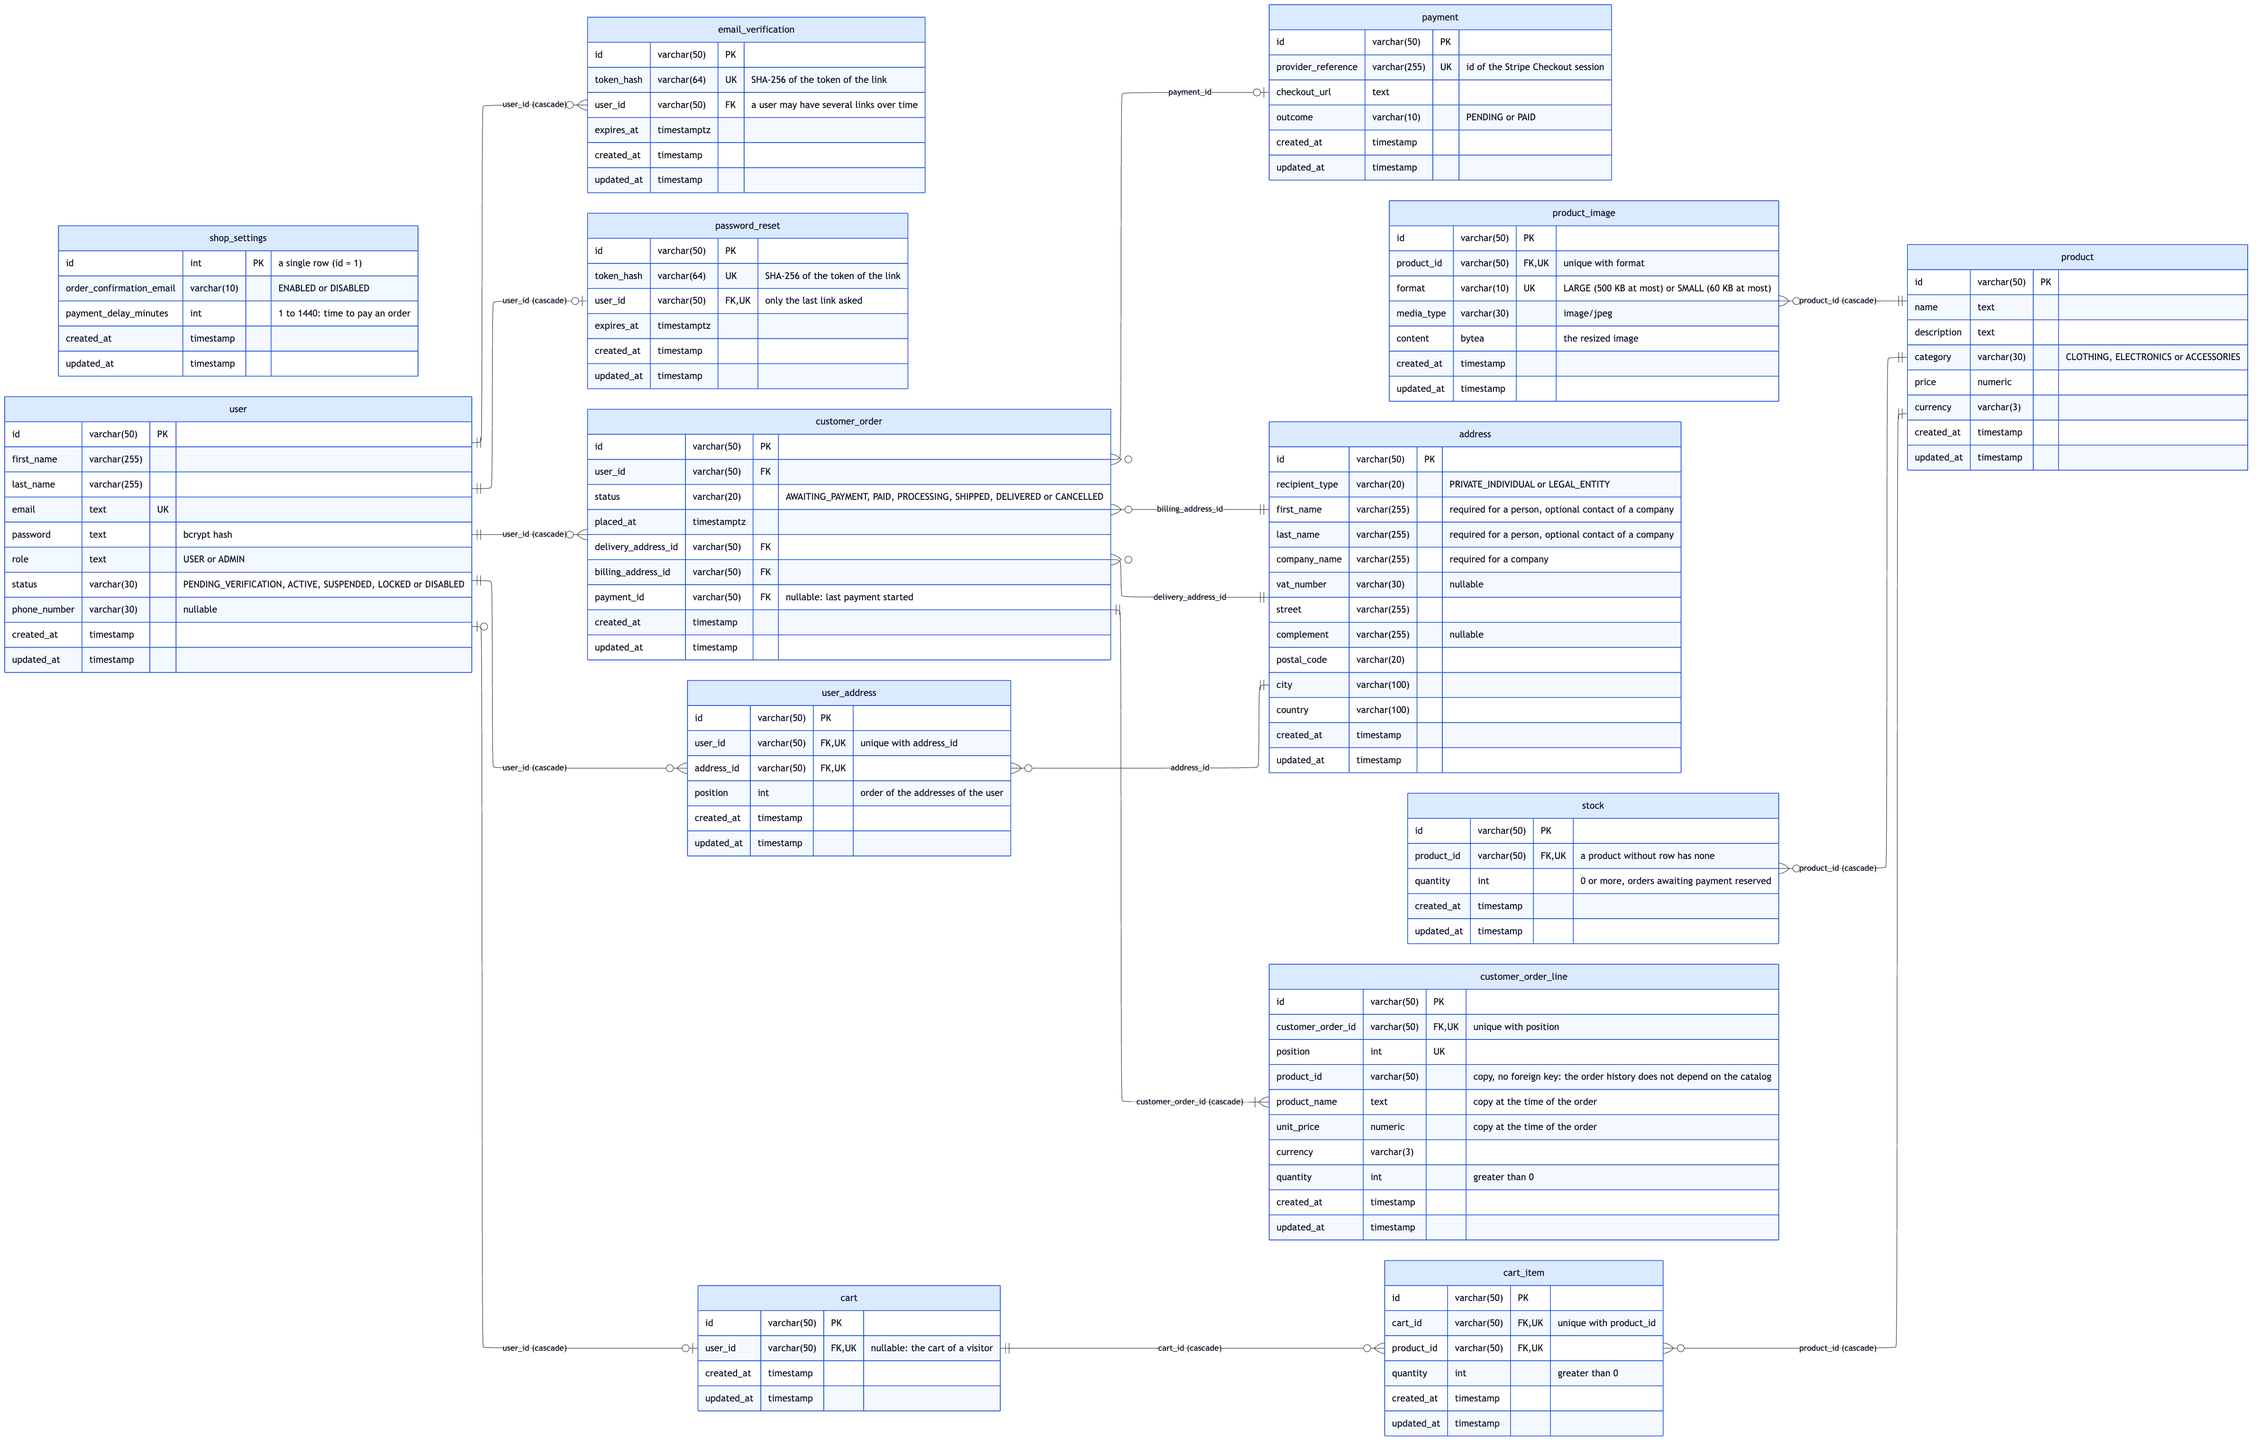
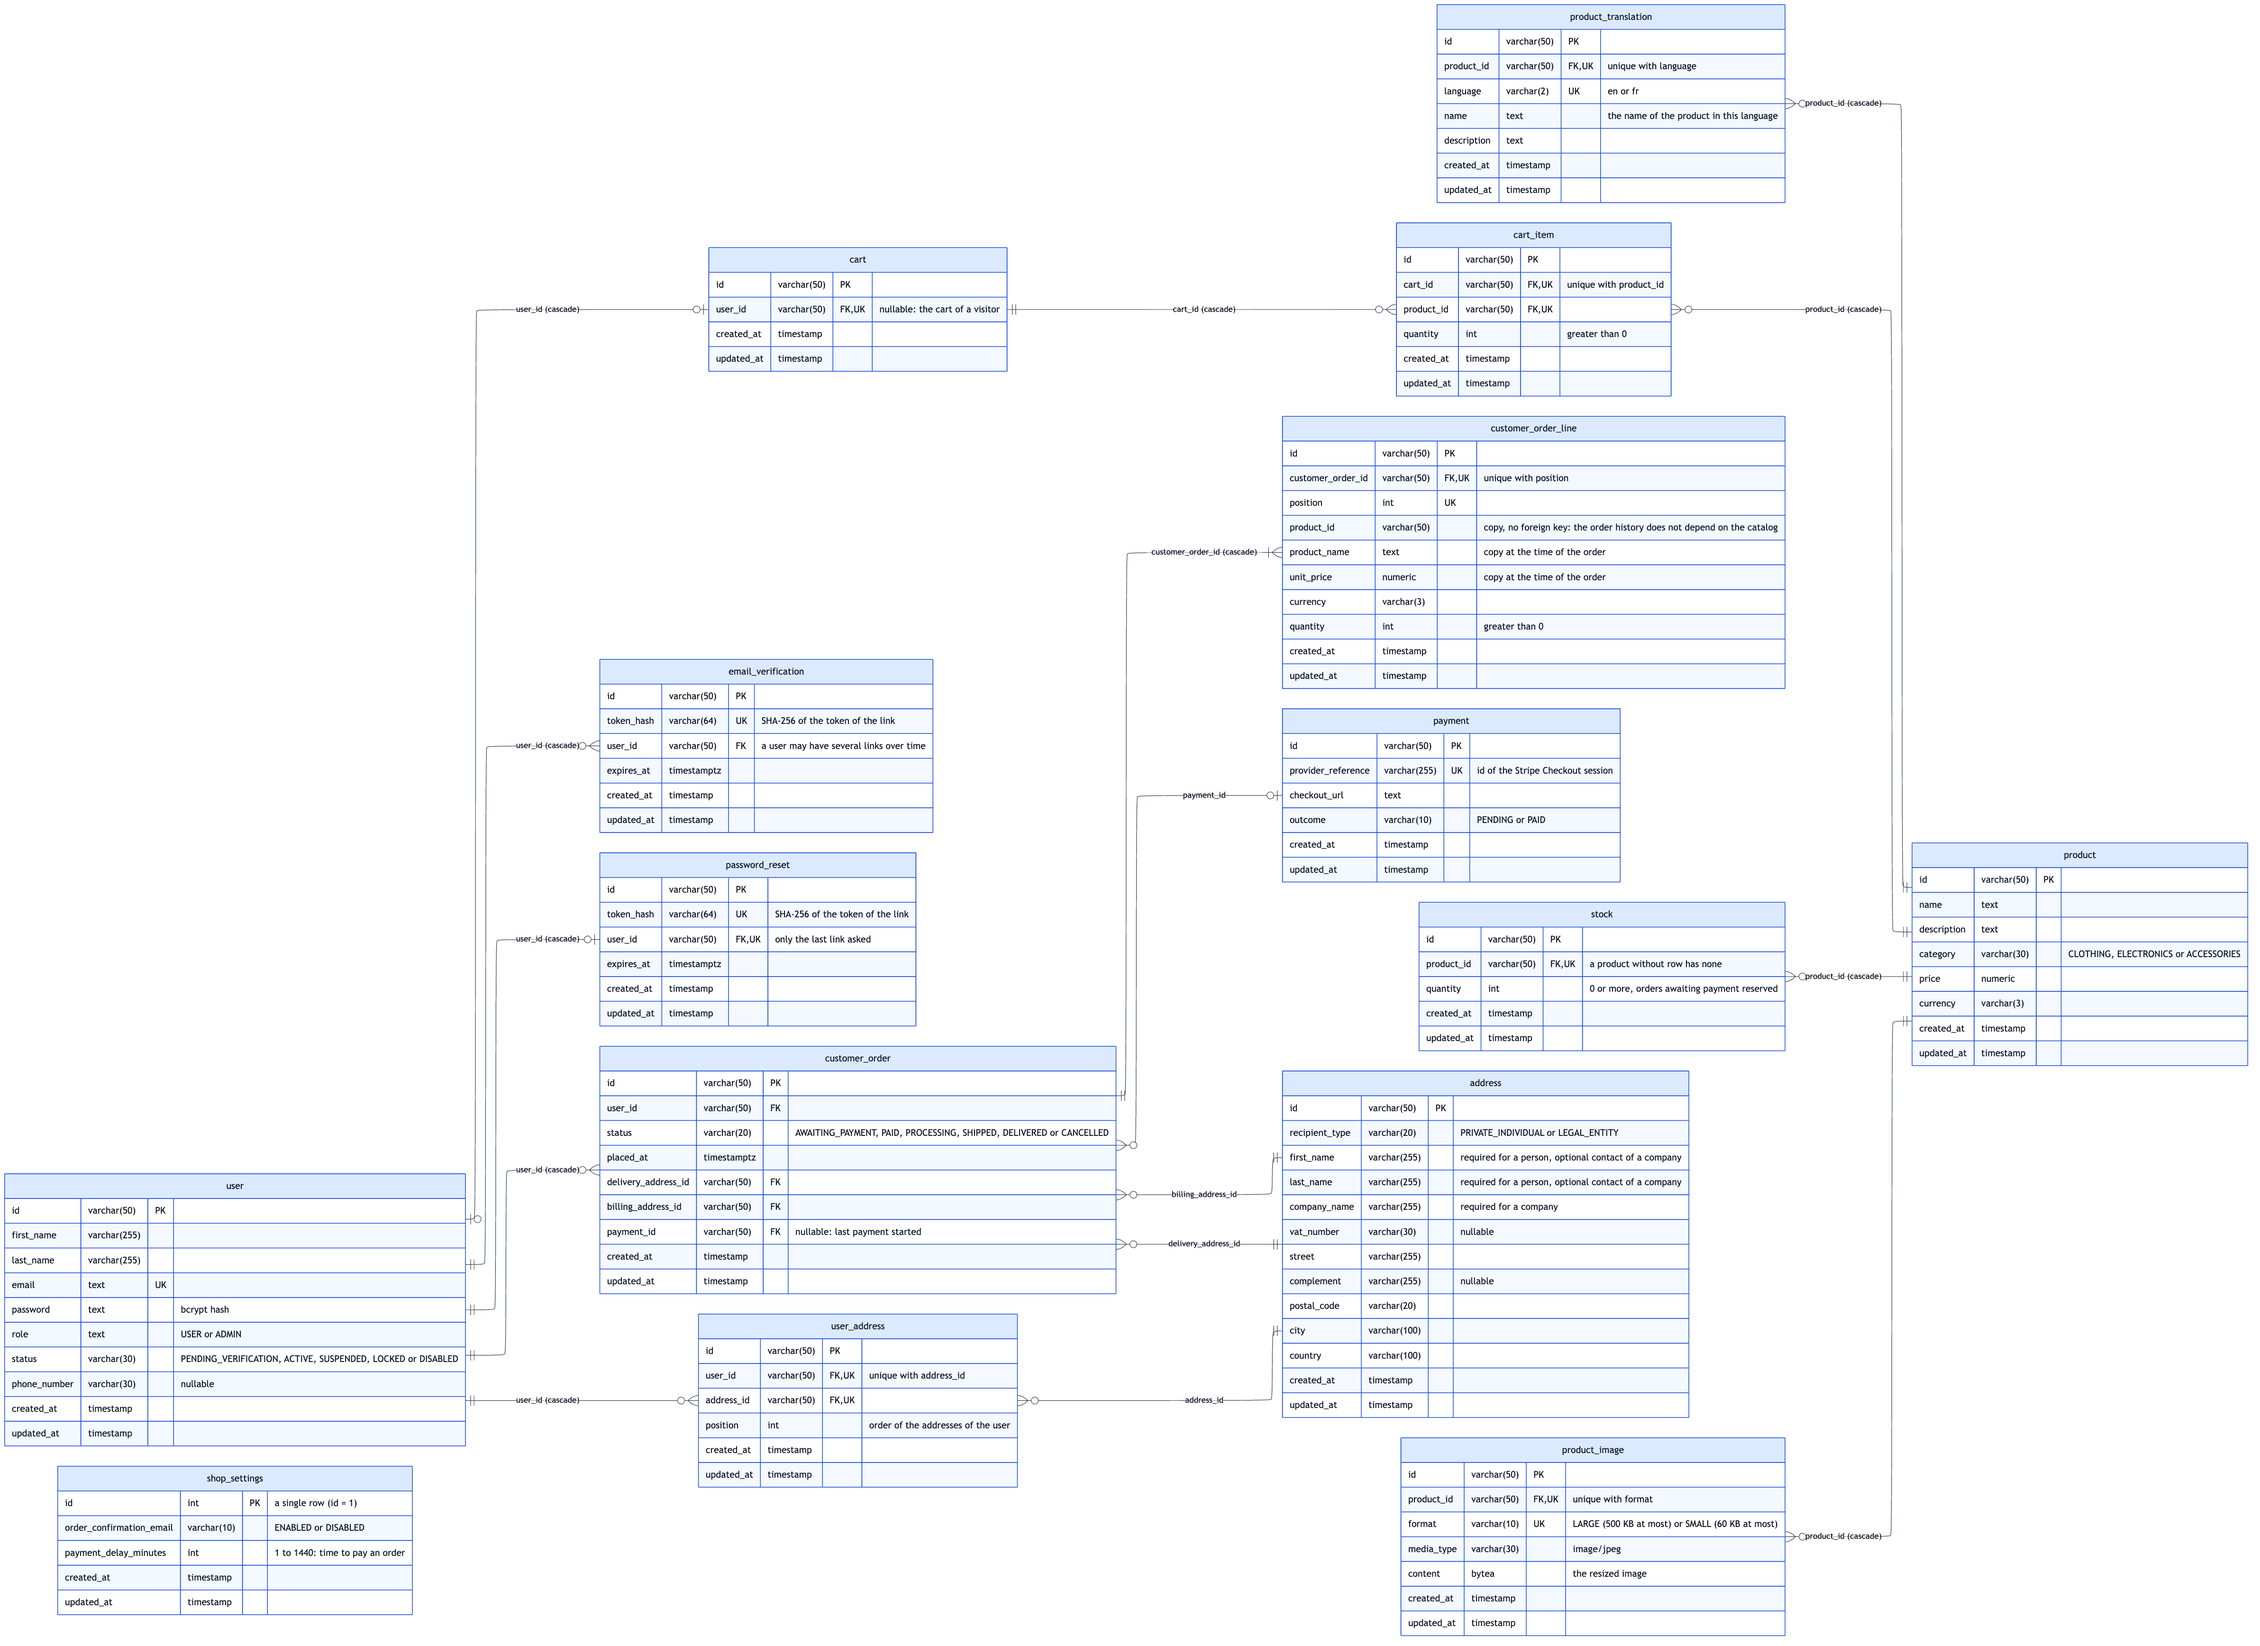
Create the table product_translation, which holds the name and the description of a product in another language
The products of the catalog are written in English: their French translations are added with the table.

diff --git a/docs/database.md b/docs/database.md
@@ -1,6 +1,6 @@
 # Physical data model
 
-The PostgreSQL schema of Flexstore, as created by the Flyway migrations of `backend/migrations` (last migration: **V22**). Update this diagram in the same pull request as any migration that changes the schema (see the `database-convention` skill).
+The PostgreSQL schema of Flexstore, as created by the Flyway migrations of `backend/migrations` (last migration: **V23**). Update this diagram in the same pull request as any migration that changes the schema (see the `database-convention` skill).
 
 ![Physical data model](database.png)
 
@@ -118,6 +118,16 @@ erDiagram
         updated_at timestamp
     }
 
+    product_translation {
+        id varchar(50) PK
+        product_id varchar(50) FK,UK "unique with language"
+        language varchar(2) UK "en or fr"
+        name text "the name of the product in this language"
+        description text
+        created_at timestamp
+        updated_at timestamp
+    }
+
     stock {
         id varchar(50) PK
         product_id varchar(50) FK,UK "a product without row has none"
@@ -168,6 +178,7 @@ erDiagram
     cart_item }o--|| product : "product_id (cascade)"
     stock }o--|| product : "product_id (cascade)"
     product_image }o--|| product : "product_id (cascade)"
+    product_translation }o--|| product : "product_id (cascade)"
 ```
 
 ## Notes
@@ -175,3 +186,4 @@ erDiagram
 - Every table has a technical primary key `id` (generated by the application), and the creation and last update dates `created_at` / `updated_at` (set by Hibernate).
 - An `address` belongs to no user: the users refer to their addresses through `user_address`, the orders through `delivery_address_id` and `billing_address_id`. Editing an address creates a new row, removing it from a user deletes only its `user_address` row: an order always keeps the address it was delivered and billed to.
 - `user` is quoted in SQL (`"user"`), a reserved word; the orders are stored in `customer_order` for the same reason.
+- A `product` keeps its own `name` and `description`, in the language of the catalog (English). `product_translation` holds them in another language, at most one row per language: a product without a translation in the language of the customer is shown with its own name and description.
